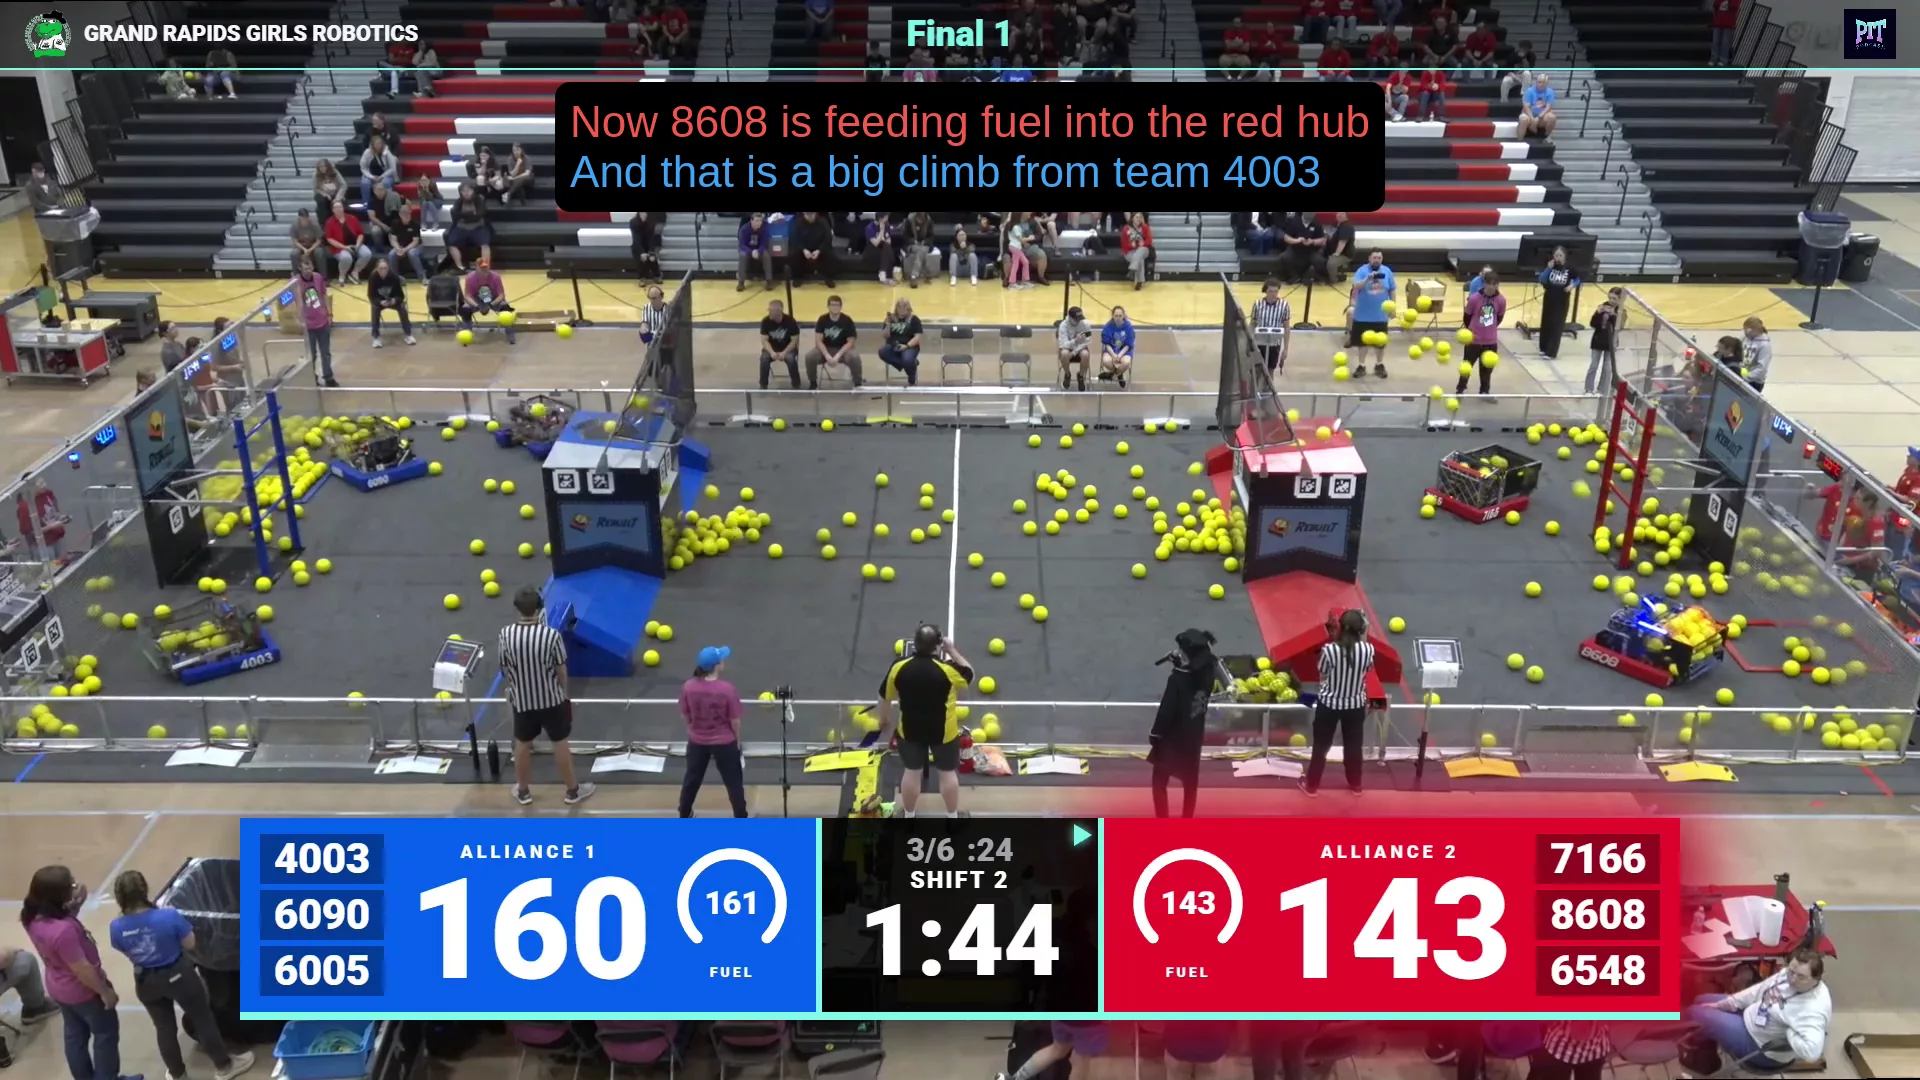
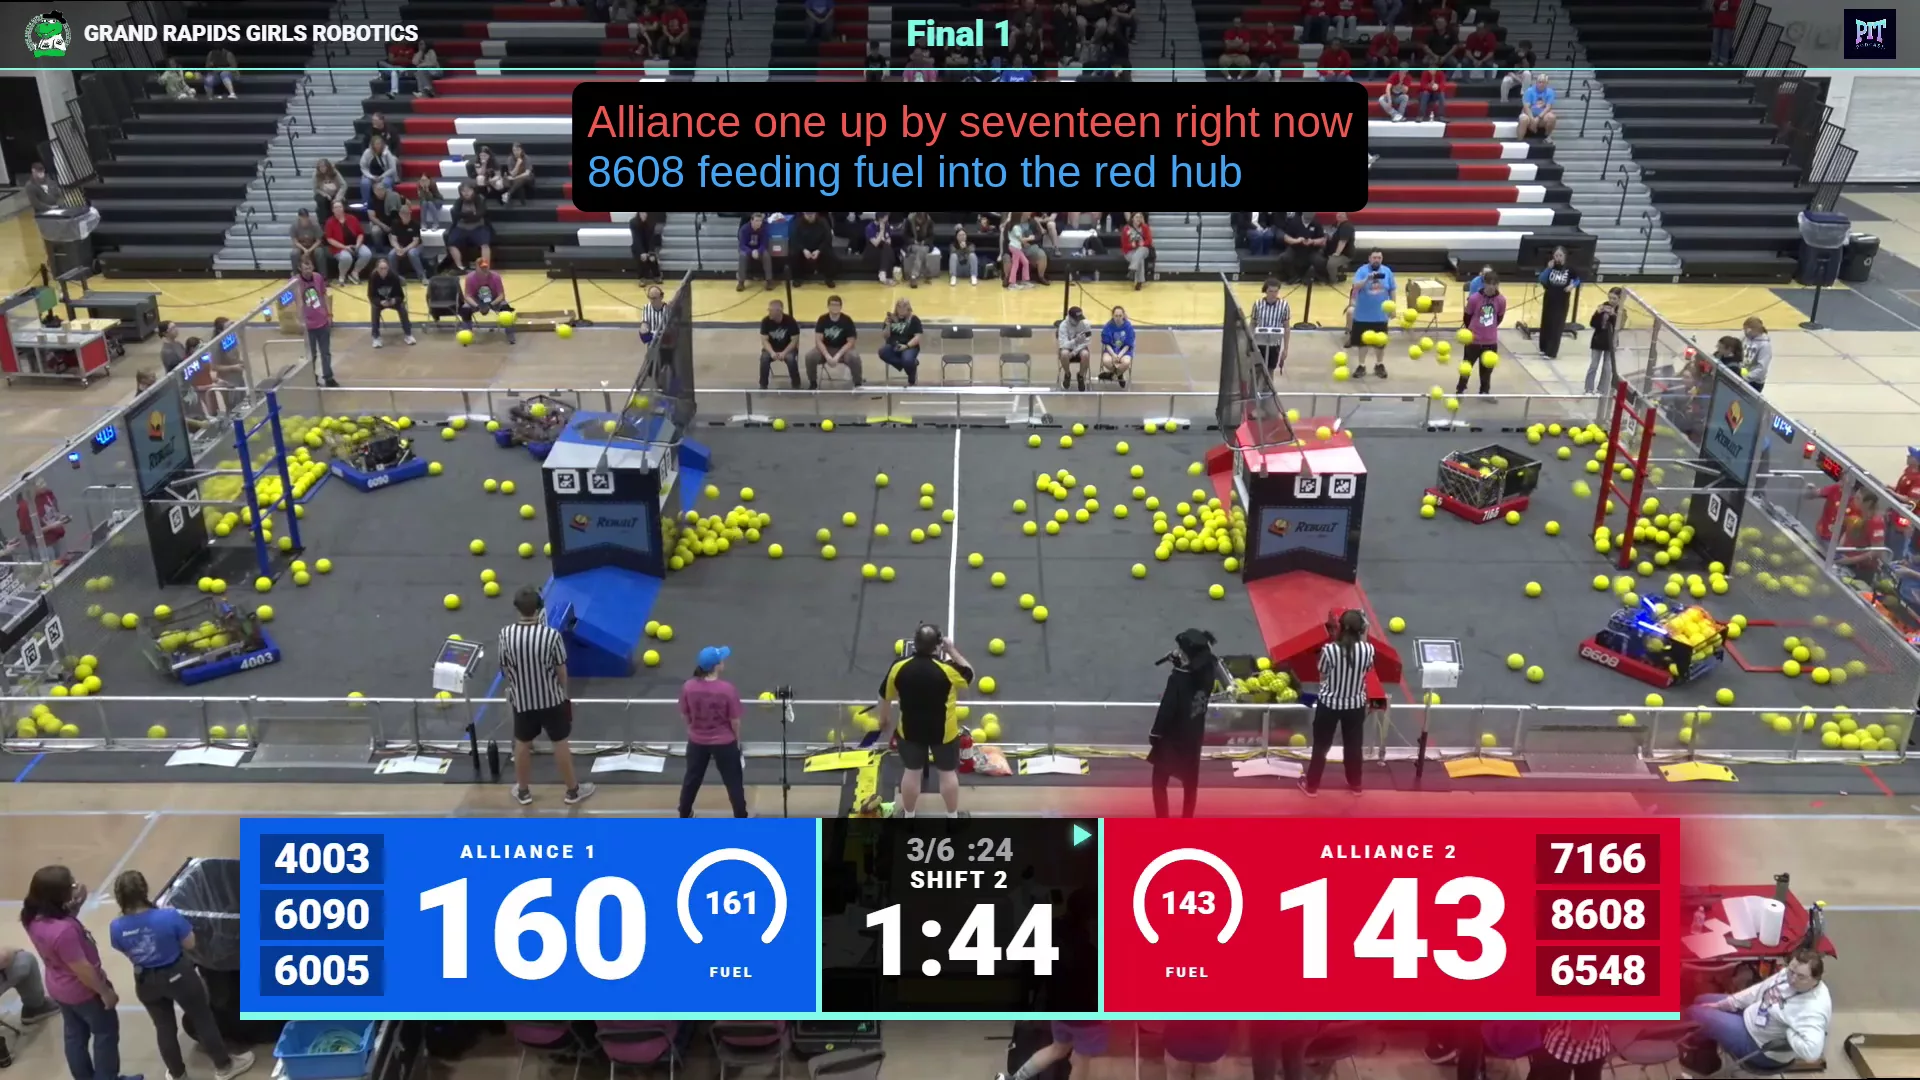
Live captions image: text that matches the frame

Changed region(s): [[0.2812, 0.0611, 0.7188, 0.2139]]

diff --git a/index.html b/index.html
@@ -199,7 +199,7 @@
 					</article>
 
 					<article>
-						<img class="shot" src="/img/projects/live-captions.webp" alt="Live captions from two mics over a Grand Rapids Girls Robotics livestream" width="1920" height="1080" loading="lazy" />
+						<img class="shot" src="/img/projects/live-captions.webp?v=1b5881f6" alt="Live captions from two mics over a Grand Rapids Girls Robotics livestream" width="1920" height="1080" loading="lazy" />
 						<h3>Live Captions</h3>
 						<p class="links"><a href="https://github.com/FIRSTinMI/live-captions">GitHub</a></p>
 						<p>
